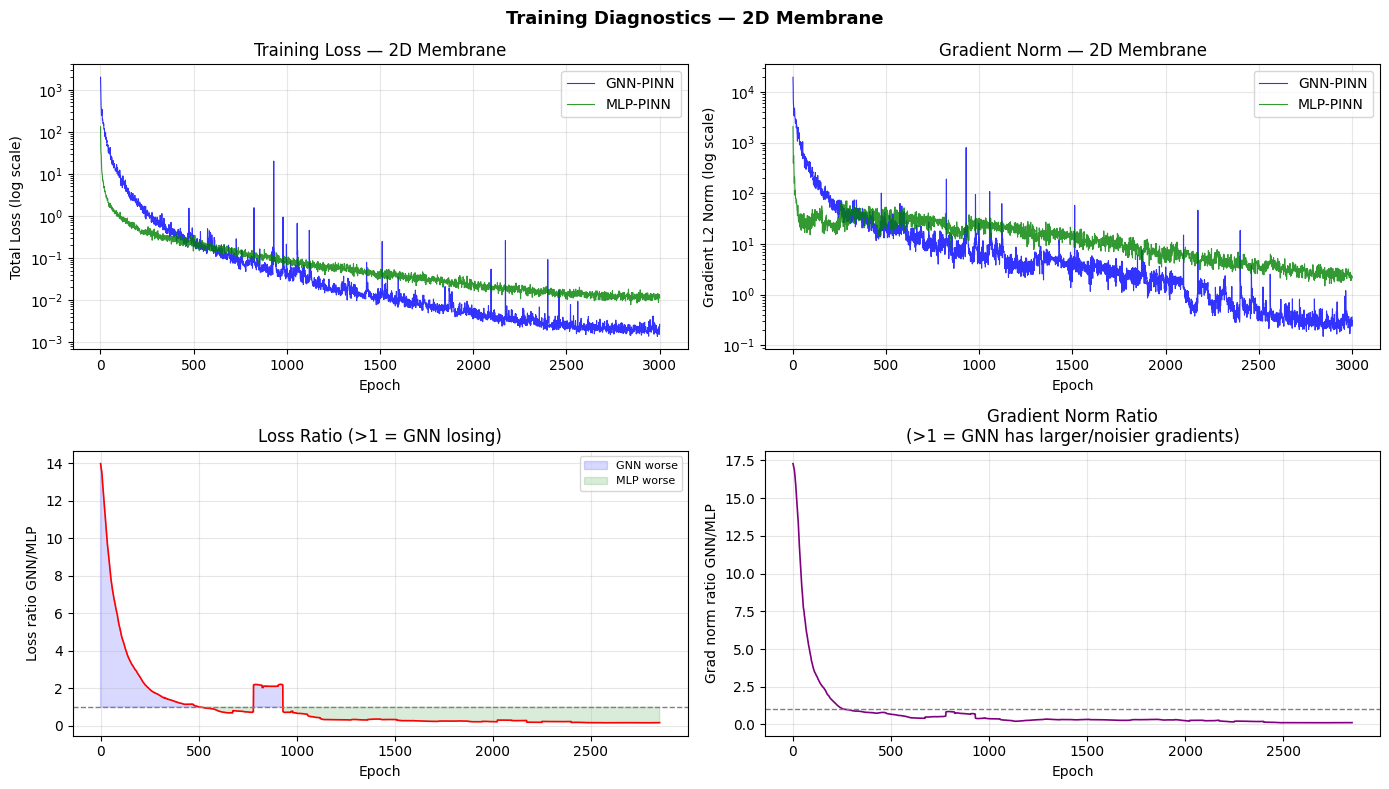
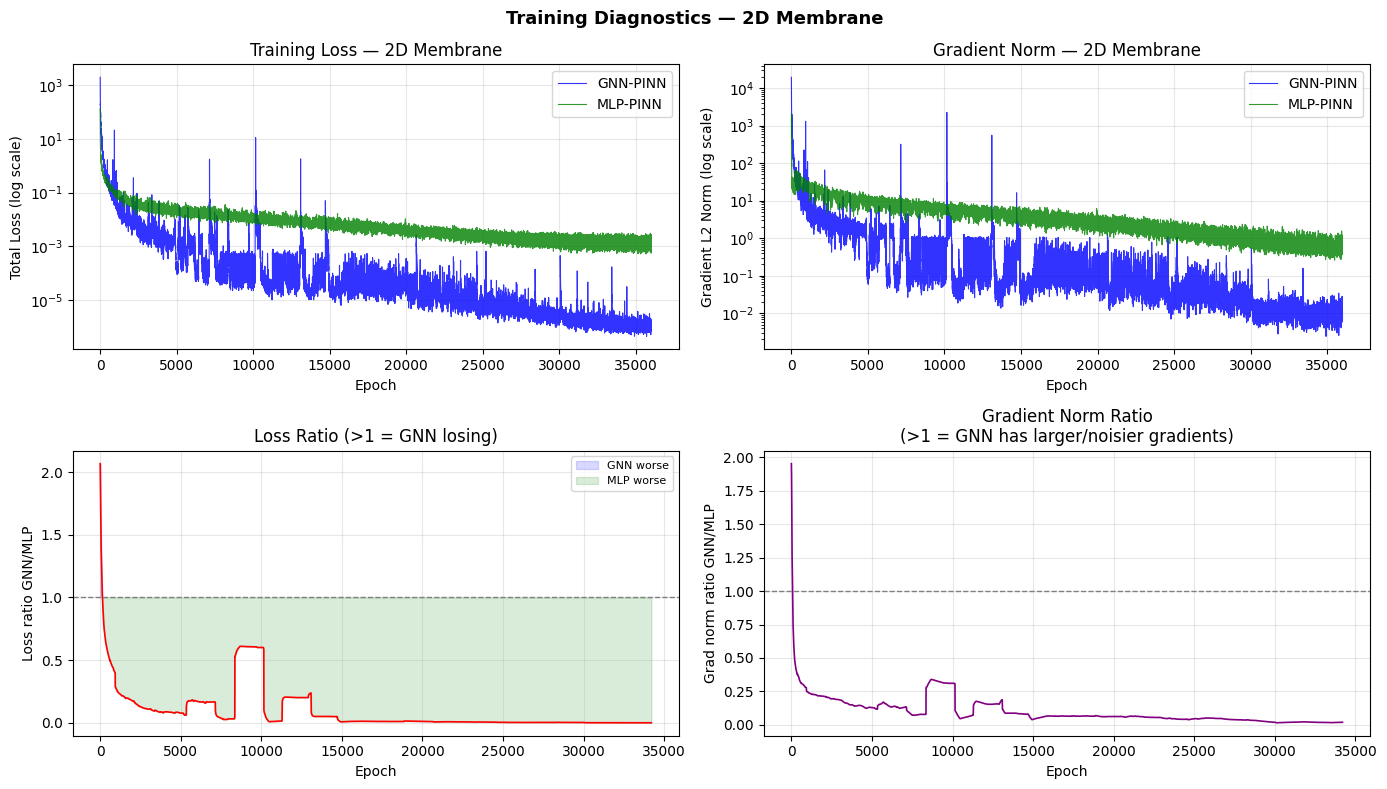
Add files via upload

diff --git a/gnn-pinn-wave/experiments/2d_membrane/extensions_code.py b/gnn-pinn-wave/experiments/2d_membrane/extensions_code.py
@@ -40,7 +40,7 @@ T2D       = 30        # time steps
 C2D       = 1.0       # wave speed
 HIDDEN2D  = 64
 FREQS2D   = 16
-EPOCHS2D  = 3000
+EPOCHS2D  = 36000
 
 print("=" * 65)
 print("MODULE 1: 2D Membrane Wave on Irregular Mesh")